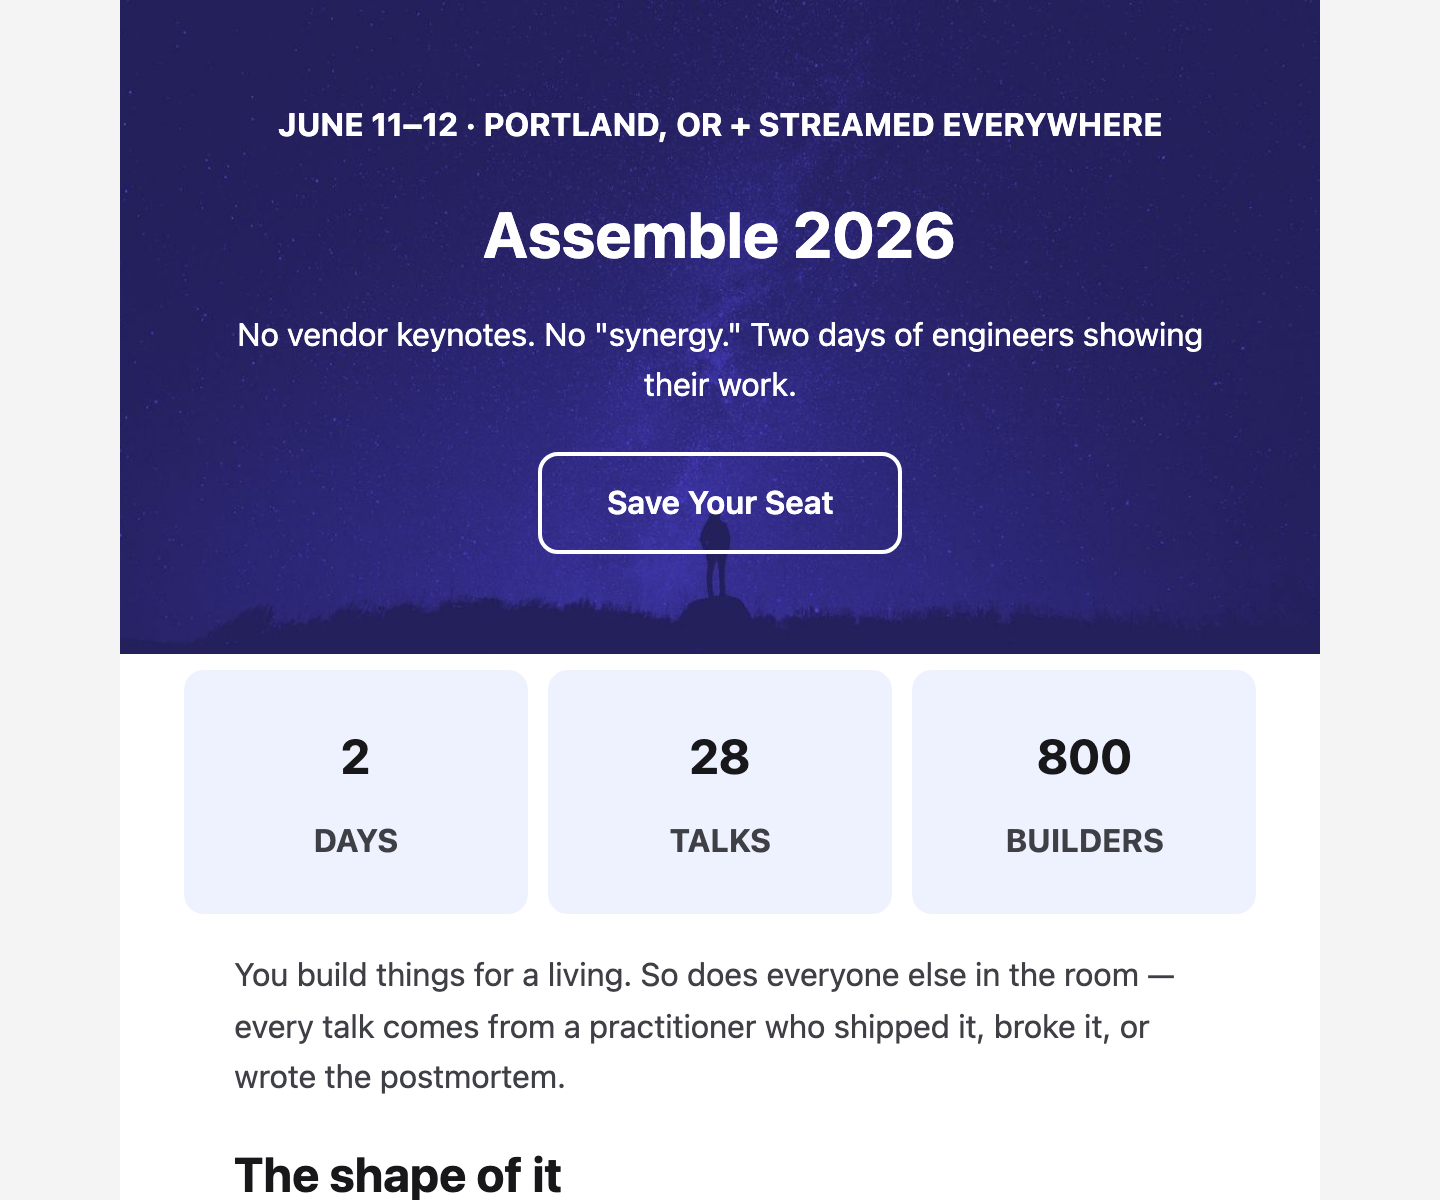
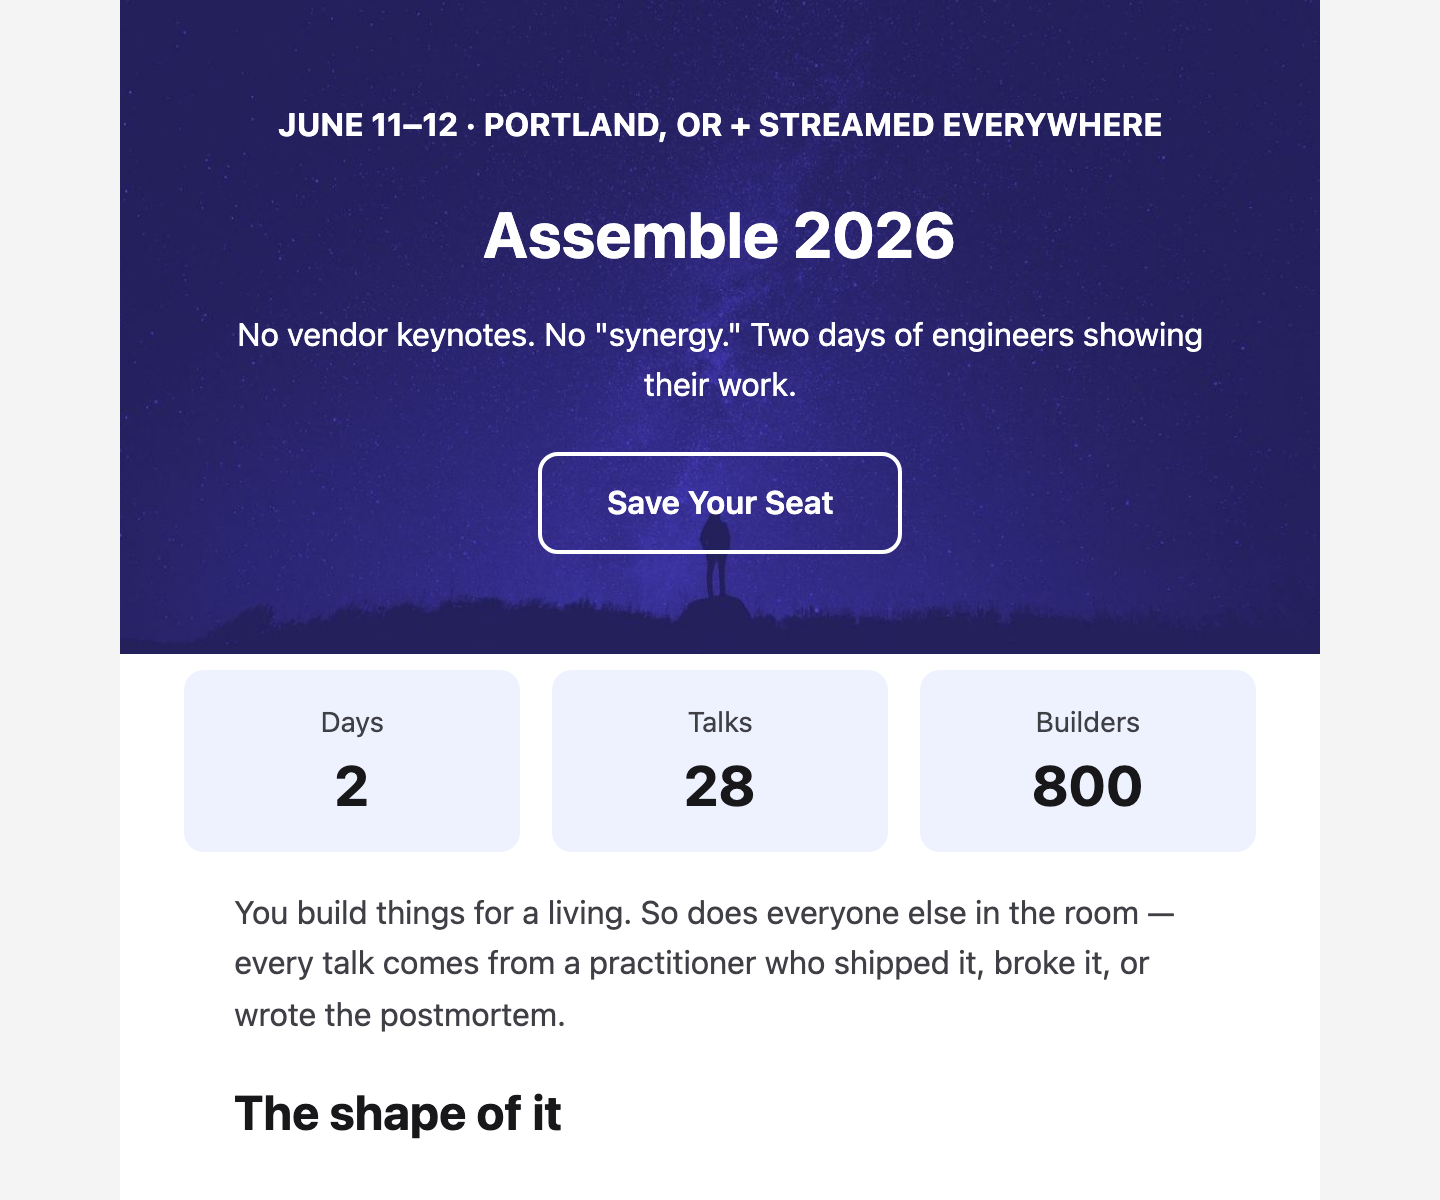
add Monthly Report template and put the data directives to work across seven existing ones

diff --git a/apps/web/lib/templates.ts b/apps/web/lib/templates.ts
@@ -83,26 +83,11 @@ Please let your other plants know a new sibling is on the way.
 
 [Track Order](https://example.com/track/RTD-7742){button}
 
-:::: columns gap=0
-::: column 31 center bg=#E4EDE0 compact
-✓ **Ordered**
-Feb 12
+::: steps
+- [x] Ordered: Feb 12 — potted and packed the same afternoon
+- [x] Shipped: Feb 13 — USPS Ground, no signature needed
+- [ ] Arrives: Wednesday, Feb 15
 :::
-::: column 3.5
-::: spacer 8
-:::
-::: column 31 center bg=#E4EDE0 compact
-✓ **Shipped**
-Feb 13
-:::
-::: column 3.5
-::: spacer 8
-:::
-::: column 31 center bg=#F3EFE7 compact
-Delivery
-Feb 15
-:::
-::::
 
 ::: centered
 Order **#RTD-7742** · [View order details](https://example.com/orders/7742)
@@ -278,6 +263,106 @@ Hand-roasted. Farm-direct. You get it. So here's the news: three new single-orig
 `,
   },
   {
+    id: "monthly-report",
+    title: "Monthly Report",
+    category: "Analytics",
+    author: "emailmd",
+    markdown: `---
+preheader: "March at a glance — $48,200 in sales, your best month yet"
+background_color: "#F2F6F5"
+content_color: "#FFFFFF"
+heading_color: "#0F241D"
+body_color: "#4B5A55"
+brand_color: "#0F766E"
+button_color: "#0F766E"
+button_text_color: "#FFFFFF"
+card_color: "#EDF5F3"
+divider_color: "#E0EAE7"
+border_radius: "10px"
+---
+
+::: header
+### Counter
+:::
+
+# March, in numbers.
+
+Your best month since Wildflower opened — and the first one where returning customers outspent new ones.
+
+::: stats
+- Sales: $48,200 (+12%)
+- Orders: 612 (+8%)
+- Average order: $78.75 (+3.7%)
+- Refunds: 1.4% (-0.6pt) {good=down}
+:::
+
+::: sparkline
+Weekly sales, this quarter: 7,200 8,100 7,600 9,400 8,800 10,200 9,600 11,100 9,800 11,400 12,600 14,400
+March closed four weeks up in a row. That has not happened before.
+:::
+
+[Open your dashboard](https://example.com/dashboard){button width="full"}
+
+## Where it came from
+
+::: chart
+- Storefront: $21,400
+- In person: $16,900
+- Instagram: $6,300
+- Wholesale: $3,600
+:::
+
+Instagram is small but it doubled, and it brings the highest average order of the four.
+
+::: divider
+
+## Also worth knowing
+
+::: trend
+Returning customers: 214, 248, 266, 299
+:::
+
+::: trend good=down
+Abandoned carts: 340, 318, 296, 271
+:::
+
+::: trend
+Email signups: 210, 245, 260, 312
+:::
+
+::: divider
+
+## Your 2026 goal
+
+::: progress max=$250,000
+Earned so far: $128,400
+Hold March's pace and you clear it in early October.
+:::
+
+## How shoppers rated you
+
+::: rating
+- Product quality: 4.8
+- Support: 4.6
+- Shipping speed: 4.2
+
+Across 214 reviews left in March.
+:::
+
+::: callout
+:bulb: **Shipping speed is your softest number.** Three of the four one-star reviews last month said the same thing. [Turn on same-day pickup](https://example.com/settings/pickup) and it stops being a queue.
+:::
+
+::: divider
+
+::: footer
+**Counter** · Payments and storefronts for small shops
+
+You get this because you run **Wildflower Provisions**. [Change what lands here](https://example.com/prefs) · [Turn monthly reports off](https://example.com/unsub)
+:::
+`,
+  },
+  {
     id: "invoice",
     title: "Invoice",
     category: "Billing",
@@ -304,33 +389,11 @@ breaks: true
 
 #NEB-2026-0217 · February 2026
 
-:::: columns gap=0
-::: column 32 bg=#F7F5FC compact color=#6E6889
-**AMOUNT DUE**
-
-::: spacer 2
-
-## $65.00
+::: stats columns=3 size=20 gap=8
+- Amount due: $65.00
+- Due date: Mar 17, 2026
+- Status: Unpaid
 :::
-::: column 2
-:::
-::: column 32 bg=#F7F5FC compact color=#6E6889
-**DUE DATE**
-
-::: spacer 8
-
-### Mar 17, 2026
-:::
-::: column 2
-:::
-::: column 32 bg=#F7F5FC compact color=#6E6889
-**STATUS**
-
-::: spacer 8
-
-### Unpaid
-:::
-::::
 
 [Pay This Invoice](https://example.com/invoices/217/pay){button width="full"}
 
@@ -421,25 +484,16 @@ We built StageDive for people who'd rather *be there* than scroll past it — ev
 
 ## Three moves and you're set
 
-::: callout
-### 1 — Follow your first artist
-Tell us who you love. We ping you the second their tickets drop — before anyone else.
+::: steps gap=20
+1. Follow your first artist
 
-[Pick your artists →](https://example.com/artists)
-:::
+   Tell us who you love. We ping you the second their tickets drop — before anyone else. [Pick your artists →](https://example.com/artists)
+2. Preview your seat
 
-::: callout
-### 2 — Preview your seat
-Check the exact view from any seat in the venue before you commit a dollar.
+   Check the exact view from any seat in the venue before you commit a dollar. [Try the seat preview →](https://example.com/seatview)
+3. Walk in with your phone
 
-[Try the seat preview →](https://example.com/seatview)
-:::
-
-::: callout
-### 3 — Walk in with your phone
-Your ticket lives in the app. No printing, no will-call line, no stress.
-
-[Get the app →](https://example.com/app)
+   Your ticket lives in the app. No printing, no will-call line, no stress. [Get the app →](https://example.com/app)
 :::
 
 ::: centered
@@ -520,6 +574,15 @@ No it doesn't, Sarah. It tastes like oats, whey, and responsible decisions. But 
 We would never claim to taste like candy. Candy doesn't have 22g of protein, and candy doesn't judge you for eating three.
 
 [SHOP RESPONSIBLE DECISIONS](https://example.com/shop){button border-radius="999px"}
+
+::: rating color=#0A0A0A track=#F5B9E4
+- Taste: 4.8
+- Texture: 4.6
+- Value: 4.1
+- Resembles candy: 1.2
+
+2,410 reviews. Derek's counted once.
+:::
 
 ::: centered
 Now that we've set the record straight, here are some *less* dramatic reviews:
@@ -745,13 +808,28 @@ Traffic shifts back in seconds, and the bad deploy stays archived for the postmo
 
 ::: divider color=#26272B
 
+## A cold start that's 40% less cold
+
+::: chart max=520
+Cold start, p50 across every region — lower is better.
+
+- Nebula 2.3: 420ms {color=#4B4B55}
+- Nebula 2.4: 250ms
+:::
+
+Same runtime, same regions. We just stopped re-reading the bundle on every boot.
+
+::: spacer 16
+
+::: divider color=#26272B
+
 ::: spacer 16
 
 :::: columns
 ::: column
 **Also in 2.4**
 
-- 40% faster cold starts
+- Preview URLs on forked pull requests
 - \`--json\` output on every command
 - Log tailing across regions
 :::
@@ -820,68 +898,21 @@ No vendor keynotes. No "synergy." Two days of engineers showing their work.
 [Save Your Seat](https://example.com/register){button.secondary}
 :::
 
-:::: columns
-::: column 32 center bg=#EEF2FF
-## 2
-
-**DAYS**
+::: stats center columns=3
+- Days: 2
+- Talks: 28
+- Builders: 800
 :::
-::: column 2
-:::
-::: column 32 center bg=#EEF2FF
-## 28
-
-**TALKS**
-:::
-::: column 2
-:::
-::: column 32 center bg=#EEF2FF
-## 800
-
-**BUILDERS**
-:::
-::::
 
 You build things for a living. So does everyone else in the room — every talk comes from a practitioner who shipped it, broke it, or wrote the postmortem.
 
 ## The shape of it
 
-:::: columns
-::: column 25
-**Morning**
+::: timeline
+- Morning: **Day 1** systems that survived · **Day 2** live incident reviews
+- Afternoon: **Day 1** hands-on workshops · **Day 2** the hallway track, formalized
+- Evening: **Day 1** food carts and demo night · **Day 2** the closing show
 :::
-::: column 75
-**Day 1** · Systems that survived
-
-**Day 2** · Live incident reviews
-:::
-::::
-
-::: divider color=#E4E4E7
-
-:::: columns
-::: column 25
-**Afternoon**
-:::
-::: column 75
-**Day 1** · Hands-on workshops
-
-**Day 2** · The hallway track, formalized
-:::
-::::
-
-::: divider color=#E4E4E7
-
-:::: columns
-::: column 25
-**Evening**
-:::
-::: column 75
-**Day 1** · Food carts + demo night
-
-**Day 2** · Closing show
-:::
-::::
 
 ## Pick your track
 
@@ -968,8 +999,9 @@ Easy care · Bright indirect light
 :::
 ::::
 
-::: callout center compact
-**$8 to go** — orders over $50 ship free.
+::: progress max=$50
+Cart total: $42.00
+$8 to go — orders over $50 ship free.
 :::
 
 ::: highlight center bg=#1F4030 color=#F3EDE2

diff --git a/apps/web/lib/screenshot-manifest.ts b/apps/web/lib/screenshot-manifest.ts
@@ -1,16 +1,17 @@
 // Generated by scripts/generate-template-screenshots.mts — do not edit.
 // Content hash per gallery screenshot, used to cache-bust /ss/<id>.png.
 export const screenshotVersions: Record<string, string> = {
-  "welcome": "78a1da3b",
   "password-reset": "211eef83",
-  "order-confirmation": "faef5183",
+  "order-confirmation": "ecf6382b",
   "newsletter": "19ebd518",
-  "invoice": "0ea37251",
+  "monthly-report": "2d2cb8f5",
+  "invoice": "36aeaed4",
+  "welcome": "78a1da3b",
   "review-roundup": "5bbb7469",
   "rate-support": "f7115871",
   "confirm-email": "d8c2f267",
   "release-notes": "22dff23c",
-  "event-invite": "70897613",
-  "abandoned-cart": "f5ce0fe0",
+  "event-invite": "c2111631",
+  "abandoned-cart": "d69d7489",
   "product-announcement": "861c7092",
 };
